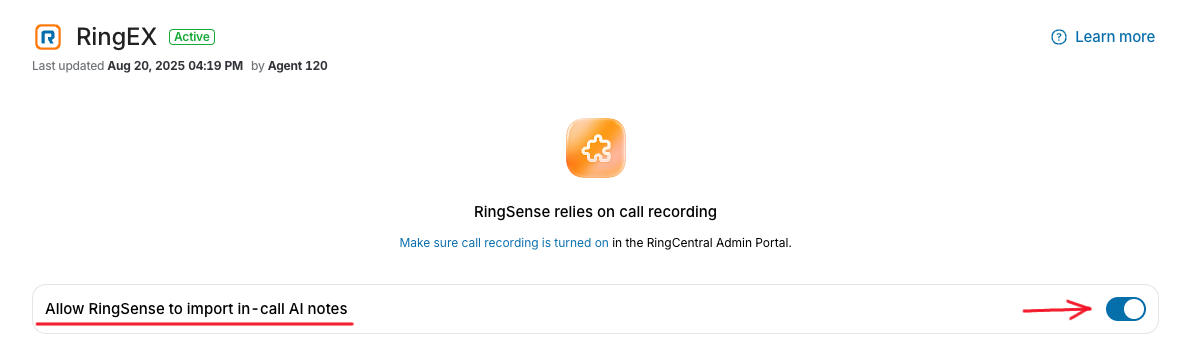
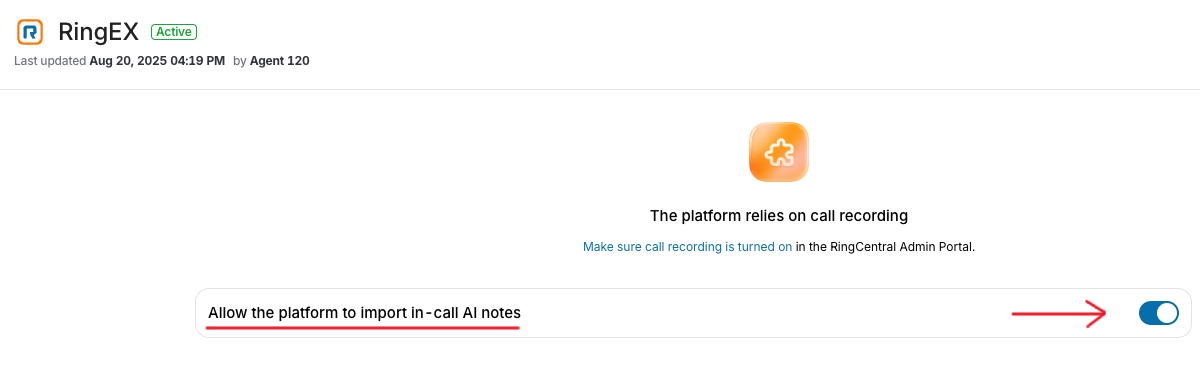
Update RS docs
- Changed RS to ACE.
- Update ACE with the new sentiment insight

diff --git a/code-samples/messaging/code-snippets/sms-feature-configs-detection.js b/code-samples/messaging/code-snippets/sms-feature-configs-detection.js
@@ -1,0 +1,44 @@
+var platform = require('./../quick-start.js').platform;
+
+
+read_extension_phone_number_detect_sms_feature()
+
+
+
+
+// Next line must be at the 10th line!
+platform.on(platform.events.loginSuccess, function(e){
+    read_extension_phone_number_detect_sms_feature()
+});
+
+platform.on(platform.events.loginError, function(e){
+    console.log("Unable to authenticate to platform. Check credentials.", e.message)
+    process.exit(1)
+});
+
+/*
+  Read phone number(s) that belongs to the authenticated user and detect if a phone number
+  has the SMS capability
+*/
+async function read_extension_phone_number_detect_sms_feature(){
+  try {
+      let endpoint = "/restapi/v1.0/account/~/extension/~/phone-number"
+      var resp = await platform.get(endpoint)
+      var jsonObj = await resp.json()
+      for (var record of jsonObj.records){
+          for (feature of record.features){
+              if (feature == "SmsSender"){
+                // If a user has multiple phone numbers, check and decide which number
+                // to be used for sending the message batch.
+                let isOk = await read_sms_configurations(record)
+              }
+          }
+      }
+      if (jsonObj.records.length == 0)
+        console.log("This user does not own a phone number!")
+      else
+        console.log("None of this user's phone number(s) has SMS capability!")
+  } catch(e) {
+      console.log(e.message)
+  }
+}

diff --git a/docs/ai/ace.md b/docs/ai/ace.md
@@ -1,38 +1,35 @@
-# RingSense
+# AI Conversation Expert (ACE)
 
-{! mdx_includes/ringsense-beta-notice.md !}
-
-RingCentral RingSense transcribes your voice calls and provides in-depth conversational insights, offering detailed analytics derived from post-call analysis of recorded sessions. Based on the richness of the conversation content, the insights may include the following:
+RingCentral AI Conversation Expert transcribes your voice calls or video meetings and provides in-depth conversational insights, offering detailed analytics derived from post-call analysis of recorded sessions. Based on the richness of the conversation content, the insights may include the following:
 
 * `Transcript` - Transcription objects with identified speakers and the timestamps of their utterances.
 * `Summary` - Summary objects with AI-generated summary paragraphs and the timestamps of the conversations.
 * `HighLights` - Highlight objects contain speaker utterances that capture key points, valuable insights, and notable moments for quick review and analysis.
 * `NextSteps` - Next steps objects contain AI-generated action items for the call participants.
-* `AIScore` - A numerical value that represents the confidence level of the RingSense AI's analysis and prediction.
+* `AIScore` - A numerical value that represents the confidence level of the AI's analysis and prediction.
+* `Sentiment` - The overall sentiment of the entire conversation, classified as "Positive", "Negative", or "Neutral".
 * `BulletedSummary` - A list of AI-generated sentences summarizing the conversations in bullet points.
 
 !!! important "Requirements"
-    * A RingSense license must be purchased and assigned to a user extension.
+    * An AI Conversation Expert license must be purchased and assigned to a user extension.
     * The license is transferable from one user extension to another user extension.
-    * RingSense data retention is defined in your RingSense settings. By default the data is retained for 1 year.
+    * ACE data retention is defined in your AI Conversation Expert settings. By default the data is retained for 1 year.
 
-To learn more about RingSense, please refer to this [online article](https://www.ringcentral.com/ringsense-for-sales.html).
+To learn more about AI Conversation Expert, please refer to this [online article](https://www.ringcentral.com/ringsense.html).
 
+- For instructions on enabling AI Conversation Expert for a RingCentral RingCX account, please refer to this [online article](https://support.ringcentral.com/article-v2/Getting-started-with-RingSense-for-RingCX.html?brand=RingCentral&product=RingCX&language=en_US)
 
+- For instructions on enabling AI Conversation Expert for a MS Teams account, please refer to this [online article](https://support.ringcentral.com/article-v2/integrating-microsoft-teams-ai-conversation-expert-integration.html?brand=RingCentral&product=RingEX&language=en_US)
 
-- For instructions on enabling RingSense for a RingCentral RingCX account, please refer to this [online article](https://support.ringcentral.com/article-v2/Getting-started-with-RingSense-for-RingCX.html?brand=RingCentral&product=RingCX&language=en_US)
+- For instructions on enabling AI Conversation Expert for a NICE CXone account, please refer to this [online article](https://support.ringcentral.com/article-v2/integrating-nice-cxone-with-ai-conversation-expert.html?brand=RingCentral&product=RingEX&language=en_US)
 
-- For instructions on enabling RingSense for a MS Teams account, please refer to this [online article](https://support.ringcentral.com/article-v2/Setting-up-integrations-in-RingSense.html?brand=RingCentral&product=RingSense&language=en_US#MS-teams)
+## AI Conversation Expert API
 
-- For instructions on enabling RingSense for a NICE CXone account, please refer to this [online article](https://support.ringcentral.com/article-v2/Setting-up-integrations-in-RingSense.html?brand=RingCentral&product=RingSense&language=en_US#cc-userhub)
+The AI Conversation Expert API allows you to programmatically access ACE data from your account.
 
-## RingSense API
+The API operates at the account level and requires the "AI Conversation Expert - Access Insights" user permission. This means that any user extension with this permission can access ACE data for any user holding an AI Conversation Expert license.
 
-The RingSense API allows you to programmatically access RingSense data from your account.
-
-The API operates at the account level and requires the "RingSense for Sales - Access Insights" user permission. This means that any user extension with this permission can access RingSense data for any user holding a RingSense license.
-
-### How to check if an extension has the permission to access RingSense data via API?
+### How to check if an extension has the permission to access ACE data via API?
 
 **Check from the account admin portal**
 
@@ -45,7 +42,7 @@ The API operates at the account level and requires the "RingSense for Sales - Ac
 
 **Check from the platform API**
 
-Authenticate the app using the login credentials of the user who is authorized to access RingSense data. Then, make a GET request to the API below:
+Authenticate the app using the login credentials of the user who is authorized to access ACE data. Then, make a GET request to the API below:
 
 `/restapi/v1.0/account/~/extension/~/authz-profile/check?permissionId=ReadRingSenseInsights`
 
@@ -72,52 +69,52 @@ If the user has the permission, the response will contain the info below:
 }
 ```
 <br>
-There are two methods to access RingSense data: through push notifications (recommended method) or via a REST API call.
+There are two methods to access ACE data: through push notifications (recommended method) or via a REST API call.
 
-### RingSense event notification
+### AI Conversation Expert event notification
 
-You can receive notifications when RingSense finishes conversational analysis through the [RingCentral push notification service](../notifications/index.md). The event payload includes the RingSense data along with the event metadata.
+You can receive notifications when the AI Conversation Expert finishes conversational analysis through the [RingCentral push notification service](../notifications/index.md). The event payload includes the ACE data along with the event metadata.
 
-To receive RingSense notification events, [subscribe for one or more event filters](../notifications/event-filters/ringsense-event-filter.md).
+To receive AI Conversation Expert notification events, [subscribe for one or more event filters](../notifications/event-filters/ace-event-filter.md).
 
-Remember, RingSense notification events are generated only when a voice call or video meeting is recorded by a user with an active RingSense license.
+Remember, AI Conversation Expert notification events are generated only when a voice call or video meeting is recorded by a user with an active AI Conversation Expert license.
 
-### Read RingSense data
+### Read AI Conversation Expert data
 
-You can read the RingSense data of a recorded voice call or video meeting if you know the `sourceRecordId` or the `sourceSessionId`. Both `sourceRecordId` and `sourceSessionId` values are included in the RingSense event payload.
+You can read the ACE data of a recorded voice call or video meeting if you know the `sourceRecordId` or the `sourceSessionId`. Both `sourceRecordId` and `sourceSessionId` values are included in the ACE event payload.
 
 !!! notes
     * The `sourceRecordId` of a voice call recording is the recording ID of a recorded call. You can get the recording ID of a call from the [call log data](../voice/call-log/details.md).
     * The `sourceSessionId` of a voice call recording is the telephony session ID of a recorded call. You can get the telephony session ID of a call from the [call log data](../voice/call-log/details.md).
-    * The `sourceRecordId` and the `sourceSessionId` of a video call recording are identical. You can get the ID of a video call by using the [List User Video Meeting](https://developers.ringcentral.com/api-reference/Meetings-History/listVideoMeetings) API. However, you should check if the video call was recorded or not to decide whether you can read the RingSense data of that video call.
-    * Currently, there is no API available to detect the `sourceRecordId` or `sourceSessionId` for phone calls or video conferences originating from RingCX, NICE CXone, or Microsoft Teams domains. Therefore, you must rely on RingSense event notifications from those domains to obtain insights for such conversations.
+    * The `sourceRecordId` and the `sourceSessionId` of a video call recording are identical. You can get the ID of a video call by using the [List User Video Meeting](https://developers.ringcentral.com/api-reference/Meetings-History/listVideoMeetings) API. However, you should check if the video call was recorded or not to decide whether you can read the ACE data of that video call.
+    * Currently, there is no API available to detect the `sourceRecordId` or `sourceSessionId` for phone calls or video conferences originating from RingCX, NICE CXone, or Microsoft Teams domains. Therefore, you must rely on ACE event notifications from those domains to obtain insights for such conversations.
 
-Read RingSense data using a recording Id:
+Read ACE data using a recording Id:
 
 GET `/ai/ringsense/v1/public/accounts/~/domains/[Domain-Name]/records/[sourceRecordId]/insights`
 
-This endpoint retrieves the RingSense data for a specific call recording, identified by the `sourceRecordId`.
+This endpoint retrieves the ACE data for a specific call recording, identified by the `sourceRecordId`.
 
-Read RingSense data using a telephony session Id:
+Read ACE data using a telephony session Id:
 
 GET `/ai/ringsense/v1/public/accounts/~/domains/[Domain-Name]/sessions/[sourceSessionId]/insights`
 
-This endpoint is useful for RingEX voice call as it returns the RingSense data for all call recordings associated with the specified telephony session. Multiple call recordings can exist for a single session in scenarios such as call transfers between agents, where each leg of the call is recorded separately. The RingSense data for each individual recording will be included in the `records` array in the API response.
+This endpoint is useful for RingEX voice calls as it returns the ACE data for all call recordings associated with the specified telephony session. Multiple call recordings can exist for a single session in scenarios such as call transfers between agents, where each leg of the call is recorded separately. The ACE data for each individual recording will be included in the `records` array in the API response.
 
 ## Example of API Response
 
 ```json
-{!> code-samples/ai/ringsense/ringsense-pbx-sample-data.json !}
+{!> code-samples/ai/ace/ace-pbx-sample-data.json !}
 ```
 
 | Parameter	| Type | Description |
 |-----------|------|-------------|
-| `title` | string | For voice calls, the system uses the the caller and callee name to compose the title. |
+| `title` | string | For voice calls, the system uses the caller and callee name to compose the title. |
 | `domain` | String | Name of the communication medium. |
 | `sourceRecordId` | String | The identifier of the call or meeting recording. |
 | `sourceSessionId` | String | For a PBX voice call, this is the telephony session id of the call. For a video meeting, the value is the same as the `sourceRecordId` |
 | `callDirection` | String | For voice calls only. The value is either `Inbound` or `Outbound`.  |
-| `ownerExtensionId` | String | The extension ID of the user who holds the RingSense license.  |
+| `ownerExtensionId` | String | The extension ID of the user who holds the AI Conversation Expert license.  |
 | `recordingDurationMs` | Integer | The length of the voice call or the meeting recording.  |
 | `recordingStartTime` | String | The date and time when the recording started.  |
 | `creationTime` | String | The date and time when the conversational insights are created. |
@@ -146,19 +143,20 @@ The `insights` is an object that may contain the following objects:
 | `Summary`     | List   | A list of JSON objects. Each object contains the summary value and related metadata.    |
 | `HighLights`  | List   | A list of JSON objects. Each object contains the highlight value and related metadata.  |
 | `NextSteps`   | List   | A list of JSON objects. Each object contains the next step value and related metadata.  |
-| `AIScore`     | List   | A JSON object that contains a numerical value that represents the confidence level of the RingSense AI's analysis and prediction.  |
+| `AIScore`     | List   | A JSON object that contains a numerical value that represents the confidence level of the AI Conversation Expert AI's analysis and prediction.  |
+| `Sentiment`   | List   | A JSON object that contains the aggregated sentiment analysis result for the entire conversation. Possible values: "Positive", "Negative", or "Neutral". |
 | `BulletedSummary`   | List   | A list of JSON objects. Each object contains the AI-generated sentences summarizing the conversations.  |
-| `CallNotes`   | List   | A JSON objects contains the taken notes from the call conversation. Each call note is separated by a new line "\n".  |
+| `CallNotes`   | List   | A JSON object contains the notes taken from the call conversation. Each call note is separated by a new line "\n".  |
 
 When processing the insights objects—such as reconstructing conversations using the utterances in the `Transcript` objects, you can match the speaker ID from a transcript object with the corresponding speaker ID in the `speakerInfo` object. This allows you to display the speaker's name (if available) alongside the utterance text.
 
 !!! Notes
-    The `CallNotes` data object is available only for RingEX voice call. It requires the "AI Notes" is turned on during the call and also the RingSense admin setting is set to allow RingSense to import the AI notes.
+    The `CallNotes` data object is available only for RingEX voice calls. It requires the "AI Notes" is turned on during the call and also the AI Conversation Expert admin setting is set to allow AI Conversation Expert to import the AI notes.
 
-    - **AI notes is turned on during a call**: You can start and stop the "AI Notes" during a call.
+    - **AI notes are turned on during a call**: You can start and stop the "AI Notes" during a call.
 
     <img class="img-fluid" src="../../img/ai-notes.png">
     <br><br>
 
-    - **RingSense admin setting options**: You can access the RingSense admin option via the [RingSense app](https://ringsense.ringcentral.com/adminsettings/integrations)
+    - **AI Conversation Expert admin setting options**: You can access the AI Conversation Expert admin option via the [AI Conversation Expert app](https://ringsense.ringcentral.com/adminsettings/integrations)
     <img class="img-fluid" src="../../img/ringsense-admin.png">

diff --git a/docs/messaging/sms/sms-errors.md b/docs/messaging/sms/sms-errors.md
@@ -66,6 +66,7 @@ Commonly encountered errors fall into categories:
 
 | Code | Description | Remedy |
 | :---- | :---- | :---- |
+| `SMS-RC-403`  |  Message rejected due to exceeding daily/monthly limits. | Contact your account administrator. |
 | `SMS-RC-410`  |  Destination number unsupported. | Check the recipient's phone number. Make sure the number is valid and not a landline phone number. |
 | `SMS-RC-413`  |  The destination subscriber opted out. |  Check your number’s opt-out list. If a recipient has opted out, contact them through another channel to obtain consent for SMS messages. To opt back in, the recipient must reply **START** to your RingCentral number. |
 | `SMS-RC-430`  | This message has been filtered and blocked by RingCentral's message filtering system for spam. | Modify the message and make sure the content complies with our [content policies](https://www.ringcentral.com/legal/sms-mms-content-policies.html) and try again. |

diff --git a/docs/messaging/sms/messaging-consent-management.md b/docs/messaging/sms/messaging-consent-management.md
@@ -51,7 +51,8 @@ var bodyParams = {
             from: "+14085556789", // Your Business Phone Number
             to: "+16501112345", // You Customer Phone Number
             optStatus: "OptOut",
-            source: 'Api'
+            coverage: "phoneNumber"
+            source: "Api"
           }
         ]
       }
@@ -68,6 +69,7 @@ var bodyParams = {
             from: "*", // From all your business phone numbers within your RingCentral account
             to: "+16501112345", // You-Customer-Phone-Number
             optStatus: "OptOut",
+            coverage: "phoneNumber",
             source: 'Api'
           }
         ]

diff --git a/docs/notifications/event-filters/ace-event-filter.md b/docs/notifications/event-filters/ace-event-filter.md
@@ -14,11 +14,11 @@
 ## Example of a RingEX voice call RingSense event
 
 ```json
-{!> code-samples/events/ringsense-pbx-event.json !}
+{!> code-samples/events/ace-pbx-event.json !}
 ```
 
 ## Example of a RingCX voice call RingSense event
 
 ```json
-{!> code-samples/events/ringsense-rcx-event.json !}
+{!> code-samples/events/ace-rcx-event.json !}
 ```
